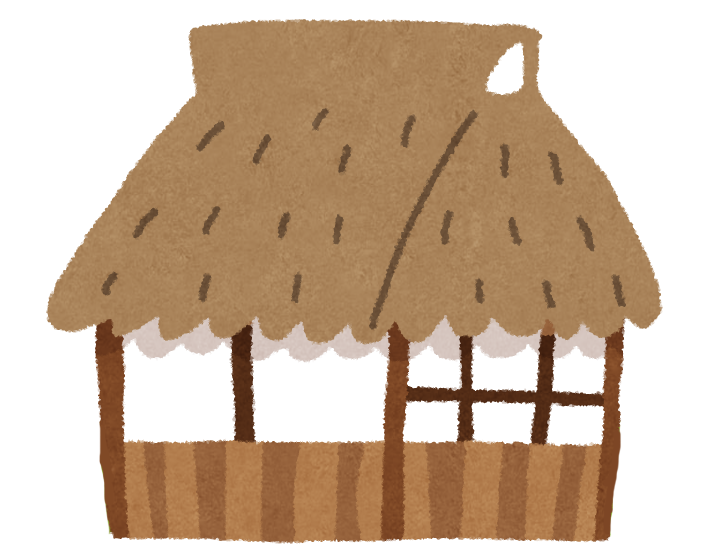
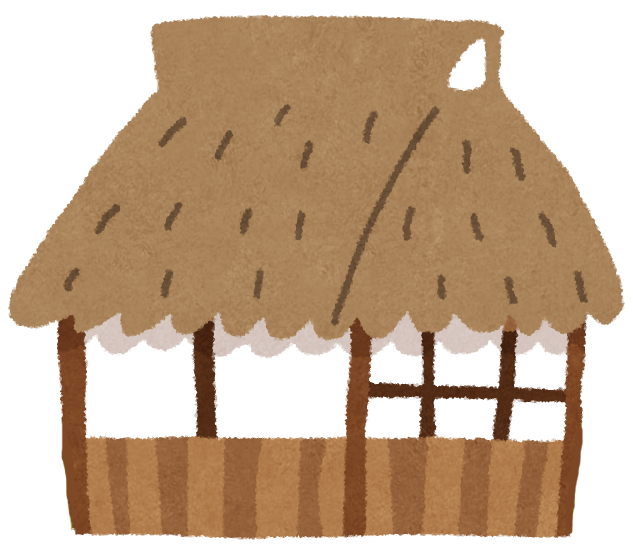
adding components and target image

diff --git a/src/App.js b/src/App.js
@@ -28,7 +28,16 @@ function App() {
 
       <div className='content'>
         <button>
-          <img src="./image/t1.png" width={180} id="target_1" alt='stage1_1' />
+          <img src="./image/t1.png" width={190} id="target_1" alt='stage1_1' />
+        </button>
+        <button>
+          <img src="./image/t1_flip.png" width={210} id="target_2" alt='stage1_1' />
+        </button>
+        <button>
+          <img src="./image/t2.png" width={160} id="target_3" alt='stage1_1' />
+        </button>
+        <button>
+          <img src="./image/t3.png" width={310} id="target_4" alt='stage1_1' />
         </button>
         <house_1 />
       </div>

diff --git a/src/App.css b/src/App.css
@@ -61,3 +61,21 @@ button {
   top: 175px;
   left: 200px;
 }
+
+#target_2 {
+  position: absolute;
+  top: 400px;
+  left: 620px;
+}
+
+#target_3 {
+  position: absolute;
+  top: 230px;
+  left: 600px;
+}
+
+#target_4 {
+  position: absolute;
+  top: 280px;
+  left: 150px;
+}
